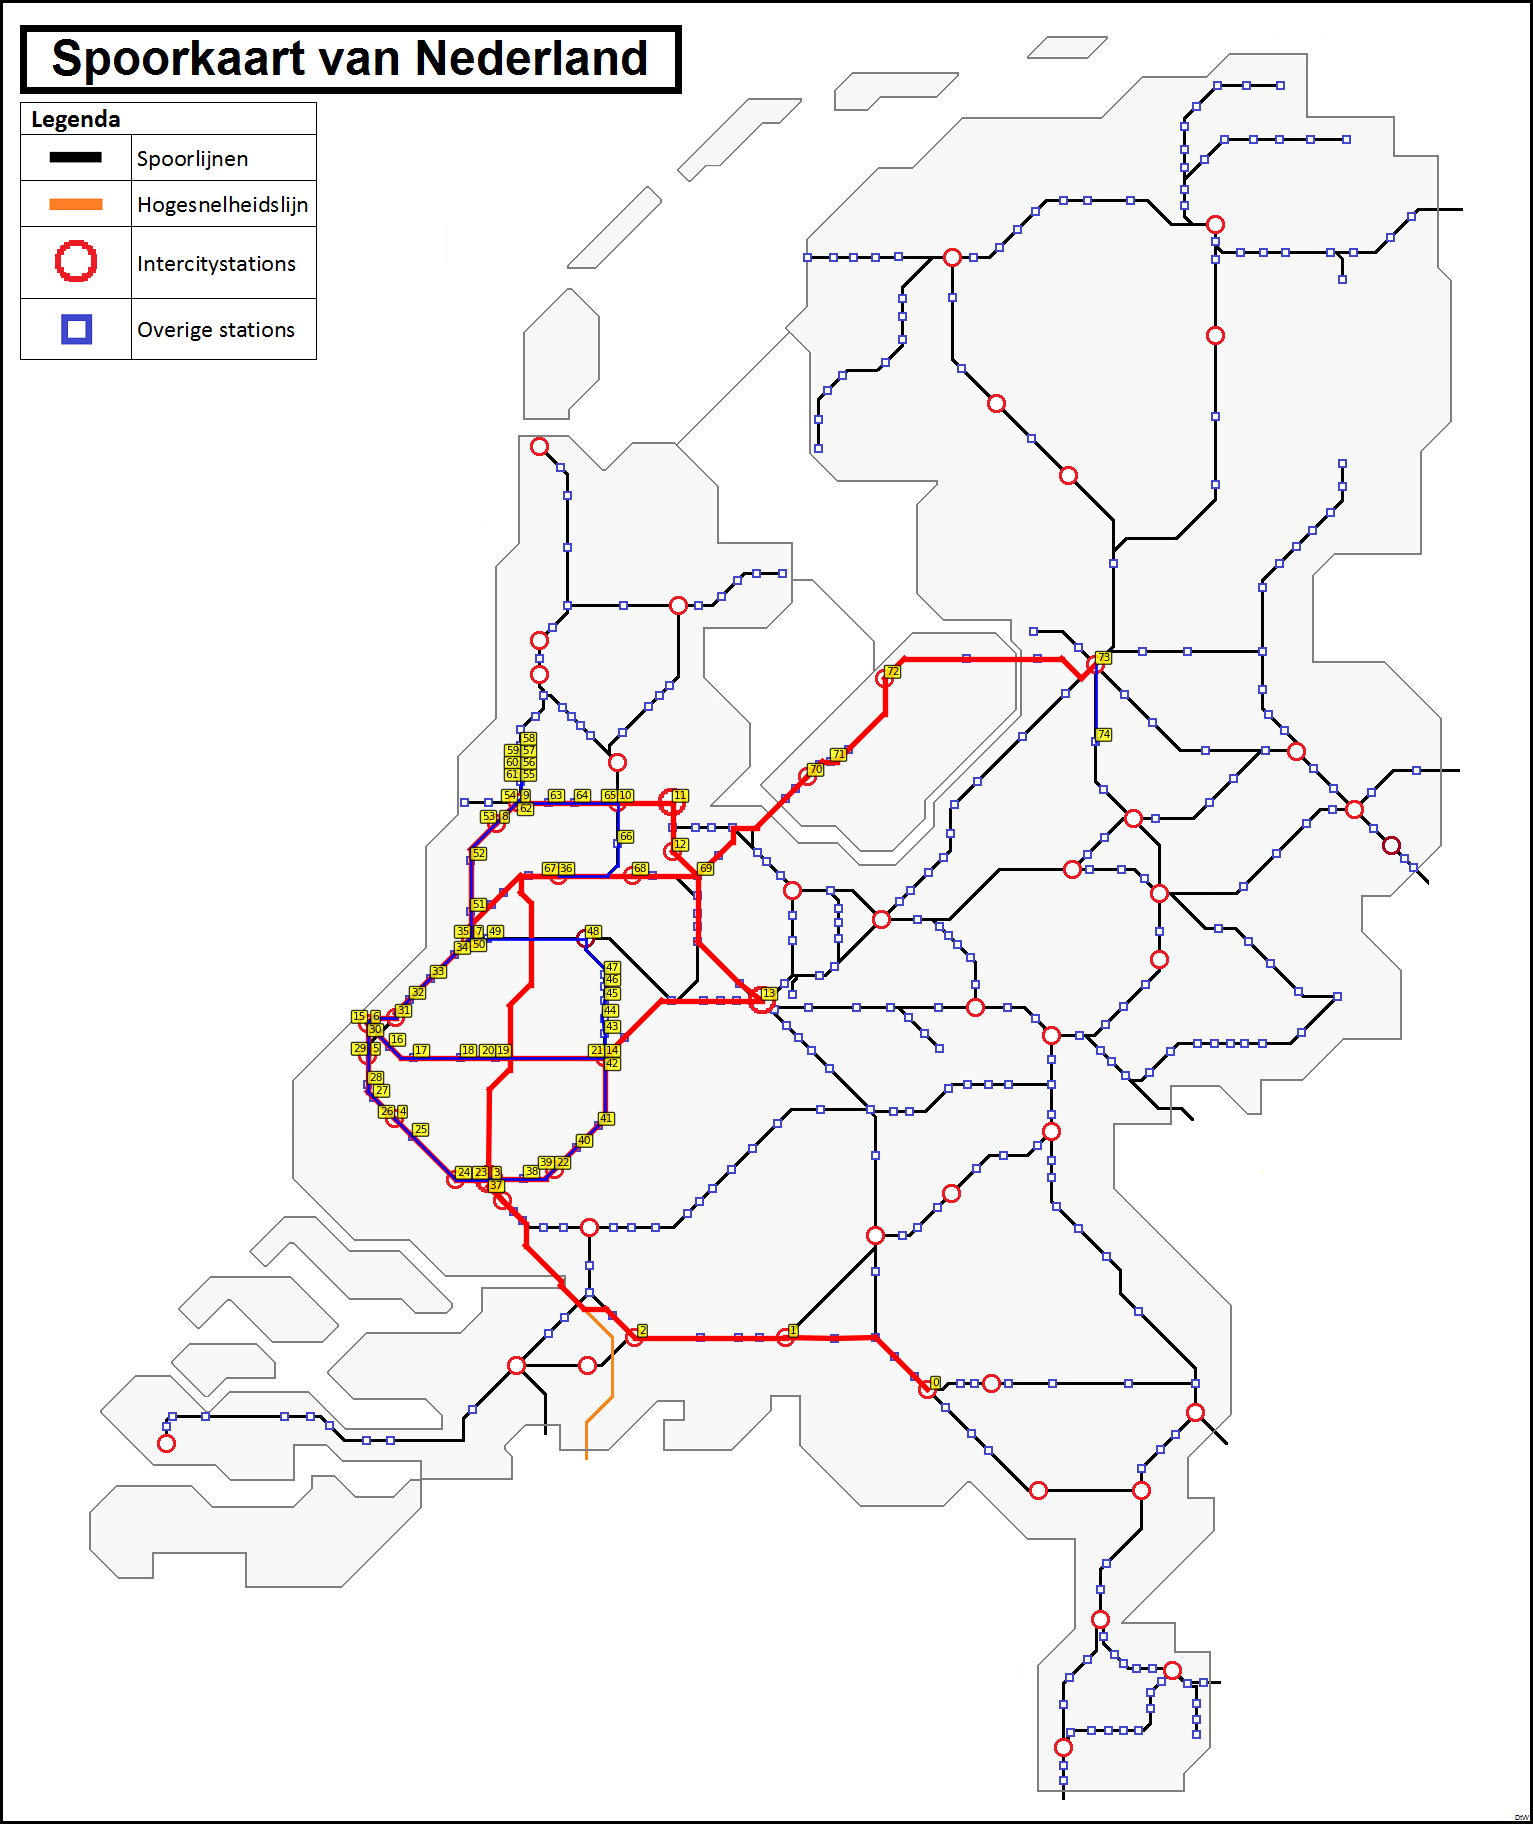
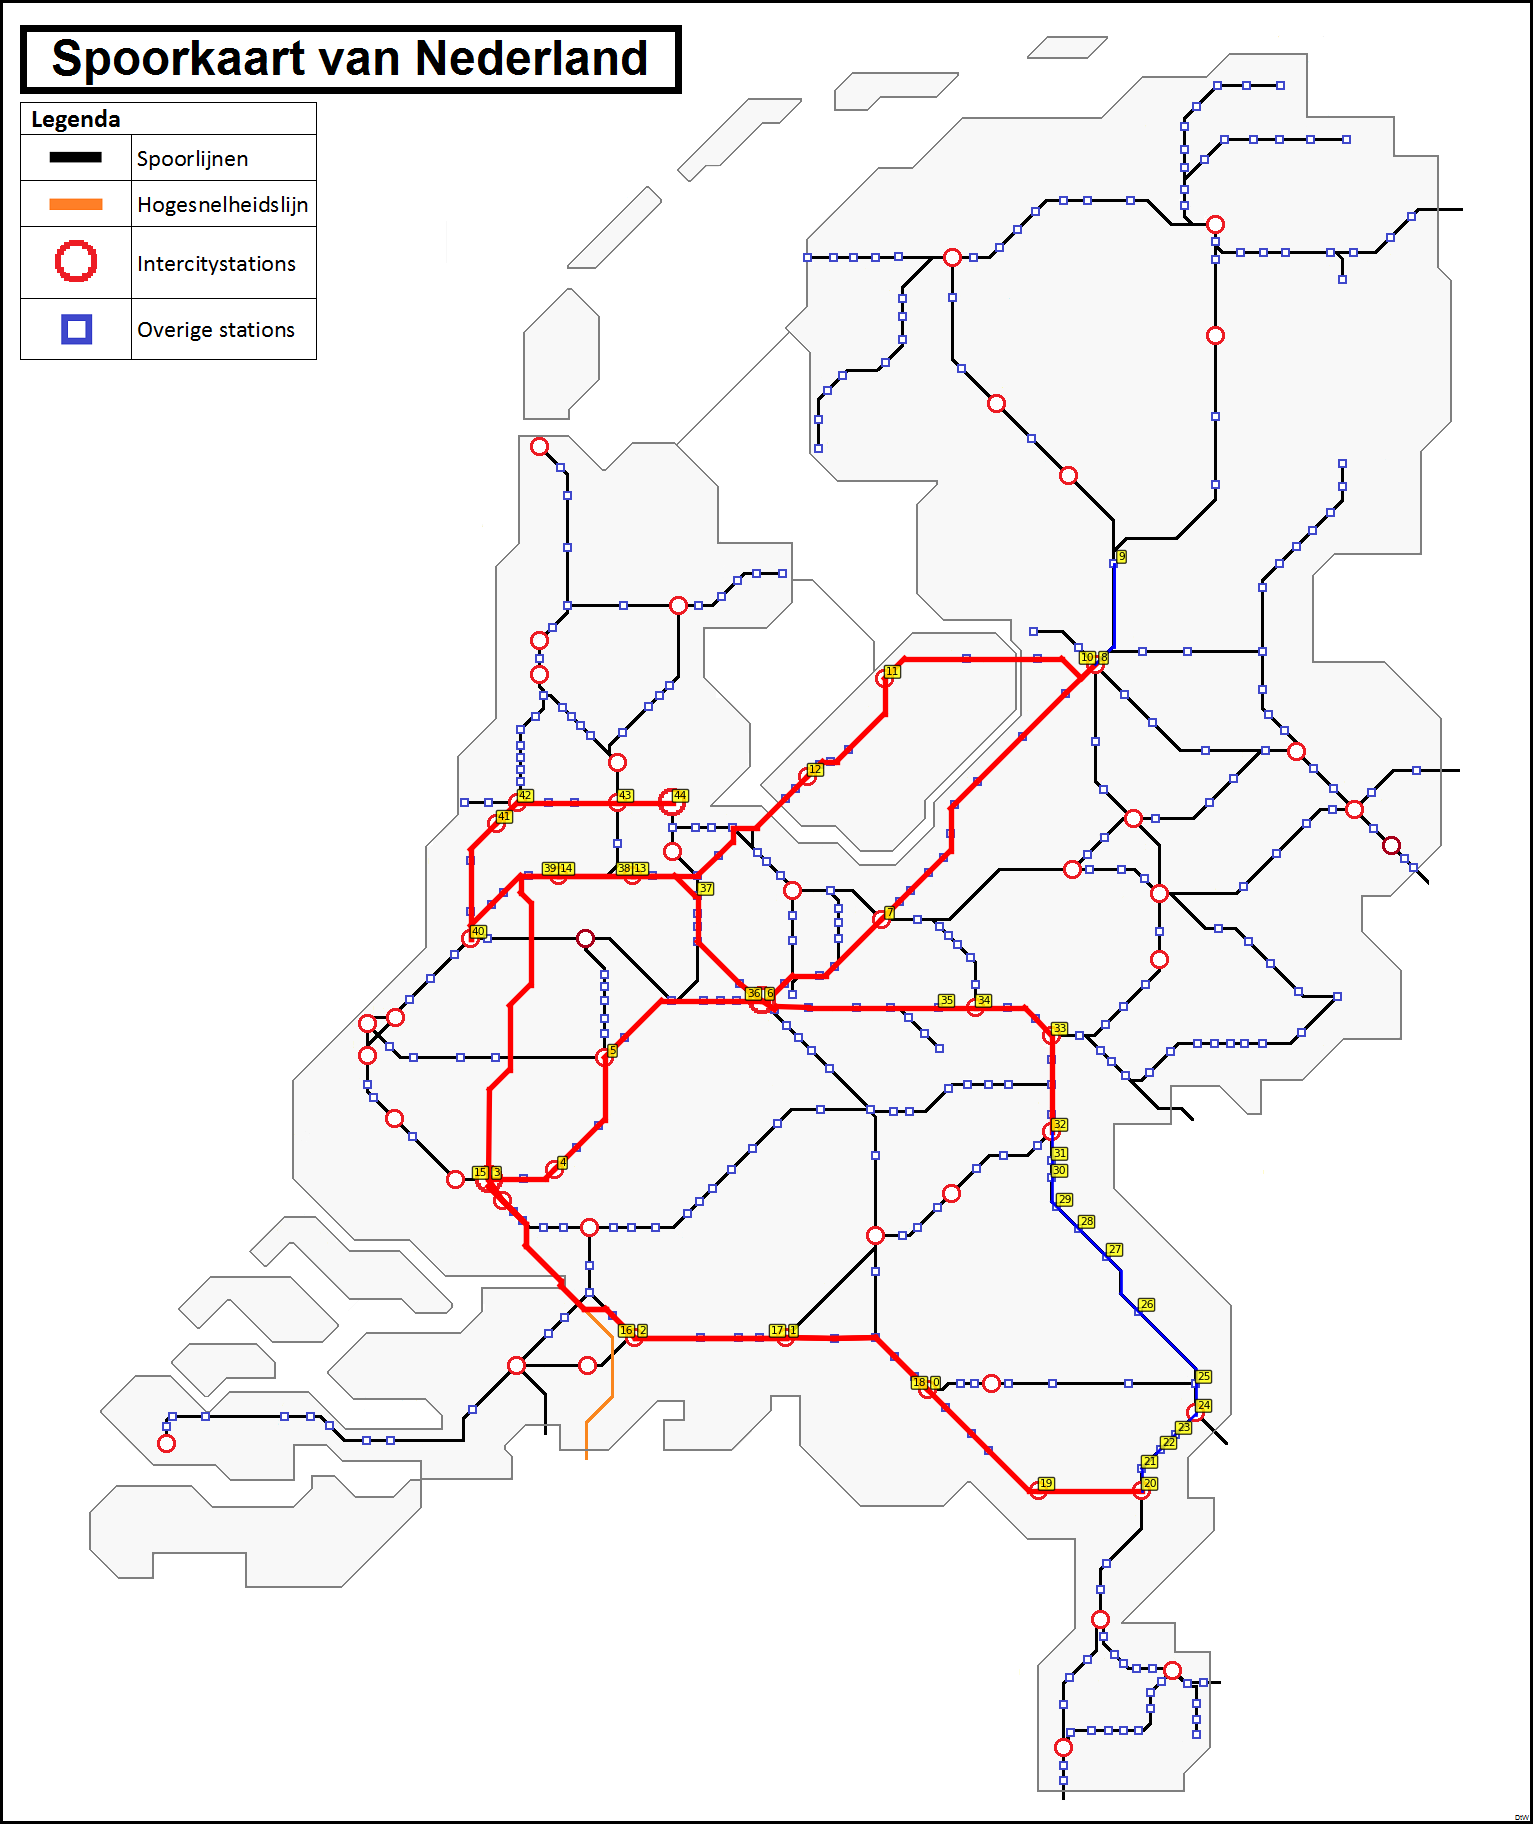
- Added exception to the main rule: some sections may be counted twice before and after getting the stamp

diff --git a/route_finding/route_indicator.py b/route_finding/route_indicator.py
@@ -17,6 +17,10 @@ STATION_DISTANCES = load_distances()
 # Get all unique station names, ground truth = distances table
 ALL_STATIONS = sorted(list(set(STATION_DISTANCES.keys())))
 
+# Exception to the main 2026 rule
+# Both before and after getting the stamp, you may drive one of these twice
+EXCEPTION_SECTIONS = (('Zl', 'Mp'), ('Mp', 'Zl'), ('Std', 'Rm'), ('Rm', 'Std'))
+
 
 class RouteIndicator:
     def __init__(self):
@@ -26,6 +30,8 @@ class RouteIndicator:
         Attributes
         - indicator_dict: Dict to hold the route indicators between stations.
             Example: {'Ht': {'Ehv': 1, 'Tb': 2}, ...}
+        - exception_used: Bool to indicate whether any of the exception sec-
+            tions has been driven twice (may count before and after stamp)
 
         Methods
         - init_indicator_table: Initialize the indicator_table
@@ -34,6 +40,7 @@ class RouteIndicator:
         - copy: Create a copy of the RouteIndicator instance
         """
         self.indicator_dict: dict[str, dict[str, int]] = dict()
+        self.exception_used: bool = False
 
     def _add_to_dict(self, from_station: str, to_station: str) -> None:
         """Deal with all cases of adding one to the number of times driven.
@@ -112,6 +119,15 @@ class RouteIndicator:
             if times_driven == 0:  # Section not driven at all yet
                 distance_counted += intermediate_distance
 
+            # One exception can be counted twice! Both before and after stamp
+            elif (
+                times_driven == 1
+                and (from_station, to_station) in EXCEPTION_SECTIONS
+                and not self.exception_used
+            ):
+                distance_counted += intermediate_distance
+                self.exception_used = True
+
         return distance_counted
 
     def copy(self):
@@ -123,6 +139,7 @@ class RouteIndicator:
         """
         new_indicator = RouteIndicator()
         new_indicator.indicator_dict = deepcopy(self.indicator_dict)
+        new_indicator.exception_used = self.exception_used
         return new_indicator
 
 

diff --git a/information/rules-2026.py b/information/rules-2026.py
@@ -13,7 +13,7 @@ Counting a connection:
   - Once before getting a stamp
   - Once after getting a stamp
 - One exception on the rule:
-  - Both before and after getting the stamp, one might count double:
+  - Both before and after getting the stamp, ONLY ONE might count double:
     - Either Zwolle - Meppel
     - Or Sittard - Roermond
 
